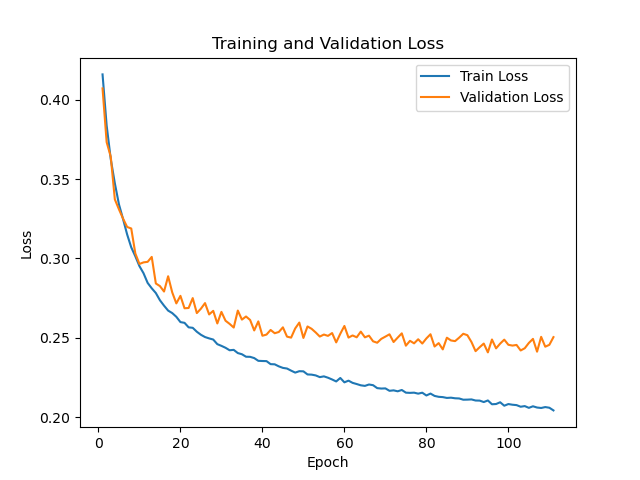
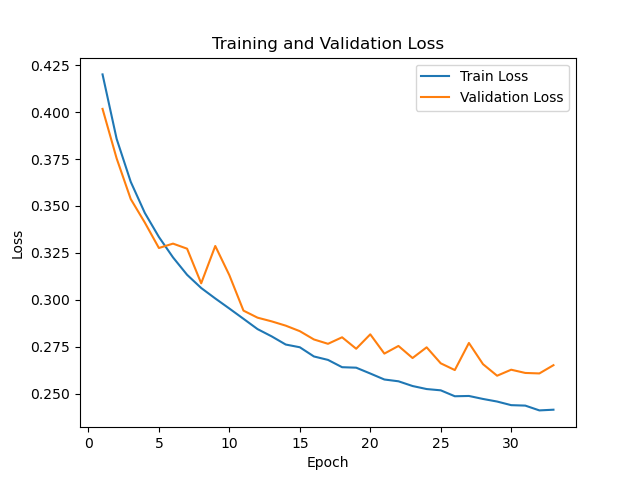
preliminary team prediction methods

diff --git a/data/build_model.py b/data/build_model.py
@@ -75,12 +75,11 @@ class LineupModel(nn.Module):
         return logits
 
 model = LineupModel(X.shape[1])
-torch.save(model.state_dict(), "data/lineup_model.pth")
 optimizer = torch.optim.Adam(model.parameters(), lr=0.001)
 criterion = nn.BCEWithLogitsLoss()
 
-num_epochs = 250
-patience = 20
+num_epochs = 200
+patience = 5
 min_delta = 1e-3
 best_val_loss = float('inf')
 counter = 0
@@ -192,3 +191,50 @@ print(f"R^2: {r2_score(all_true, all_preds):.4f}")
 
 within_1 = np.mean(np.abs(all_preds - all_true) <= 1)
 print(f"Within ±1 Accuracy: {within_1:.4f}")
+
+#Predict team lineup
+teams = df.groupby(['team', 'game_date'])
+
+def get_position_probs(logits):
+    thresholds = torch.sort(model.thresholds)[0]
+    cum_probs = torch.sigmoid(logits - thresholds)
+    probs = torch.zeros(9)
+    probs[0] = cum_probs[0]  # P(Y=1)
+    for i in range(1, 8):
+        probs[i] = cum_probs[i] - cum_probs[i-1]
+    probs[8] = 1 - cum_probs[7]  # P(Y=9)
+    return probs.detach().numpy()
+
+def predict_lineup(player_features):
+    if player_features.shape[0] != 9:
+        return None
+    
+    # Normalize features
+    player_features = scaler.transform(player_features)
+    X_tensor = torch.tensor(player_features, dtype=torch.float32)
+    
+    with torch.no_grad():
+        logits = model(X_tensor)
+        prob_matrix = np.array([get_position_probs(logits[i]) for i in range(9)])
+    
+    cost_matrix = -prob_matrix
+    row_ind, col_ind = linear_sum_assignment(cost_matrix)
+    assignment = {row: col + 1 for row, col in zip(row_ind, col_ind)}
+    return assignment
+
+scores = {i: 0 for i in range(0, 9)}
+total = 0
+for (team, date), group in tqdm(teams, desc="Predicting Lineups"):
+    player_features = group[feature_cols].values
+    lineup = predict_lineup(player_features)
+    if lineup is None:
+        continue
+    total += 1
+    true_positions = group['lineup_pos'].values
+    predicted_positions = [lineup[i] for i in range(9)]
+    for true_pos, pred_pos in zip(true_positions, predicted_positions):
+        if true_pos == pred_pos:
+            scores[true_pos-1] += 1
+print("\nPosition-wise accuracy:")
+for pos in range(0, 9):
+    print(f"Position {pos+1}: {scores[pos]/total*100:.2f}%")
